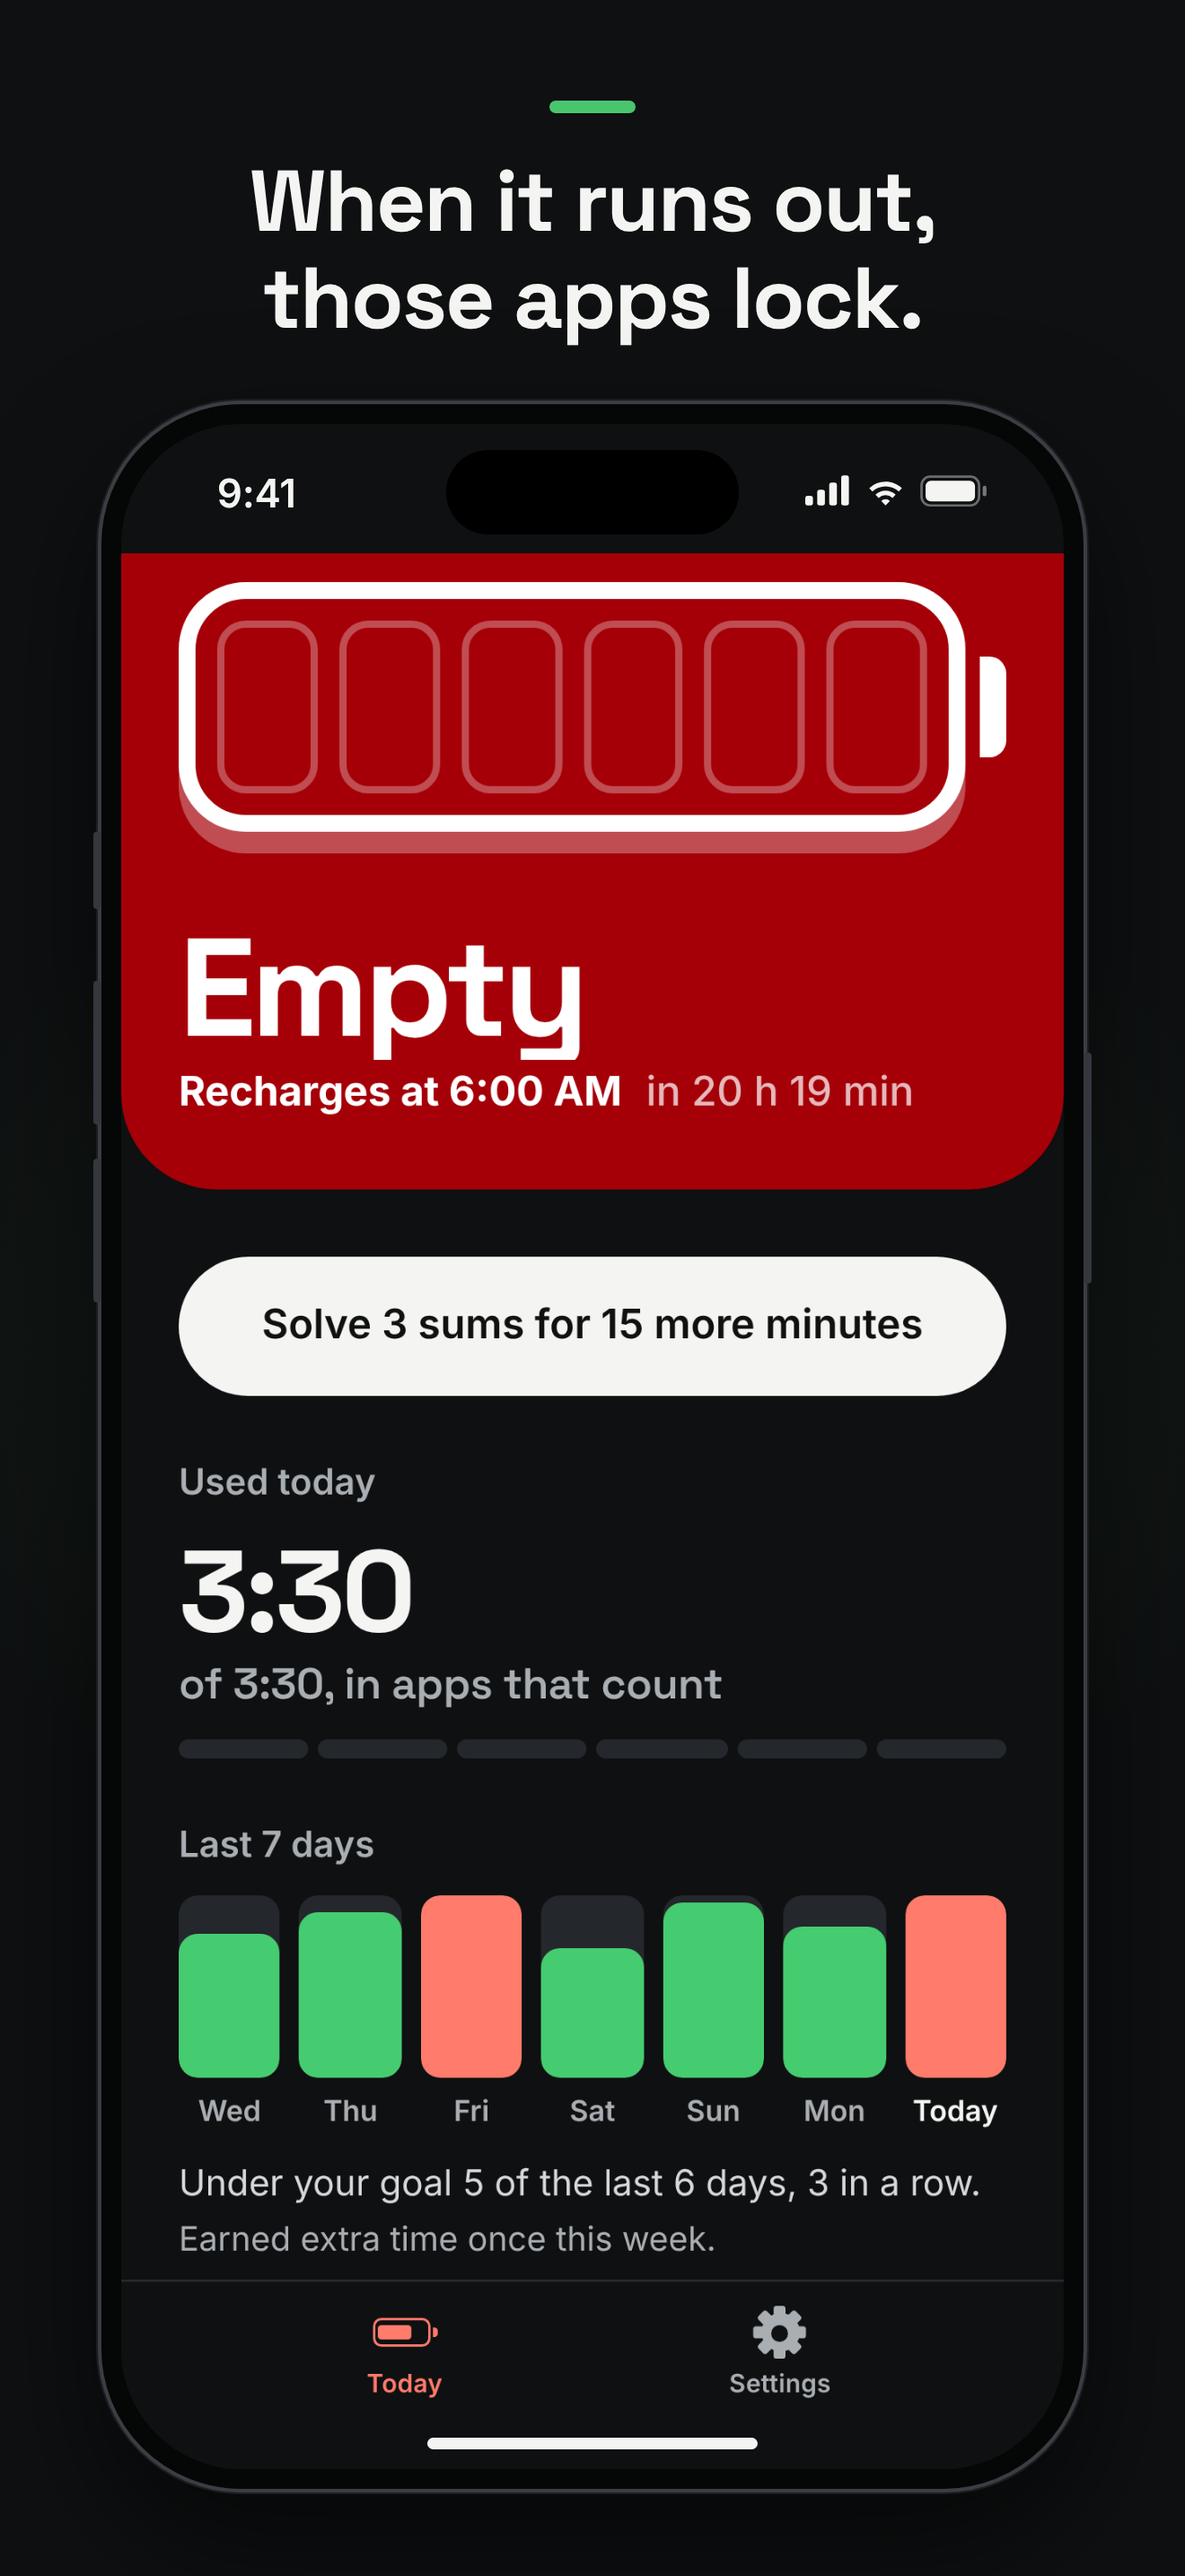
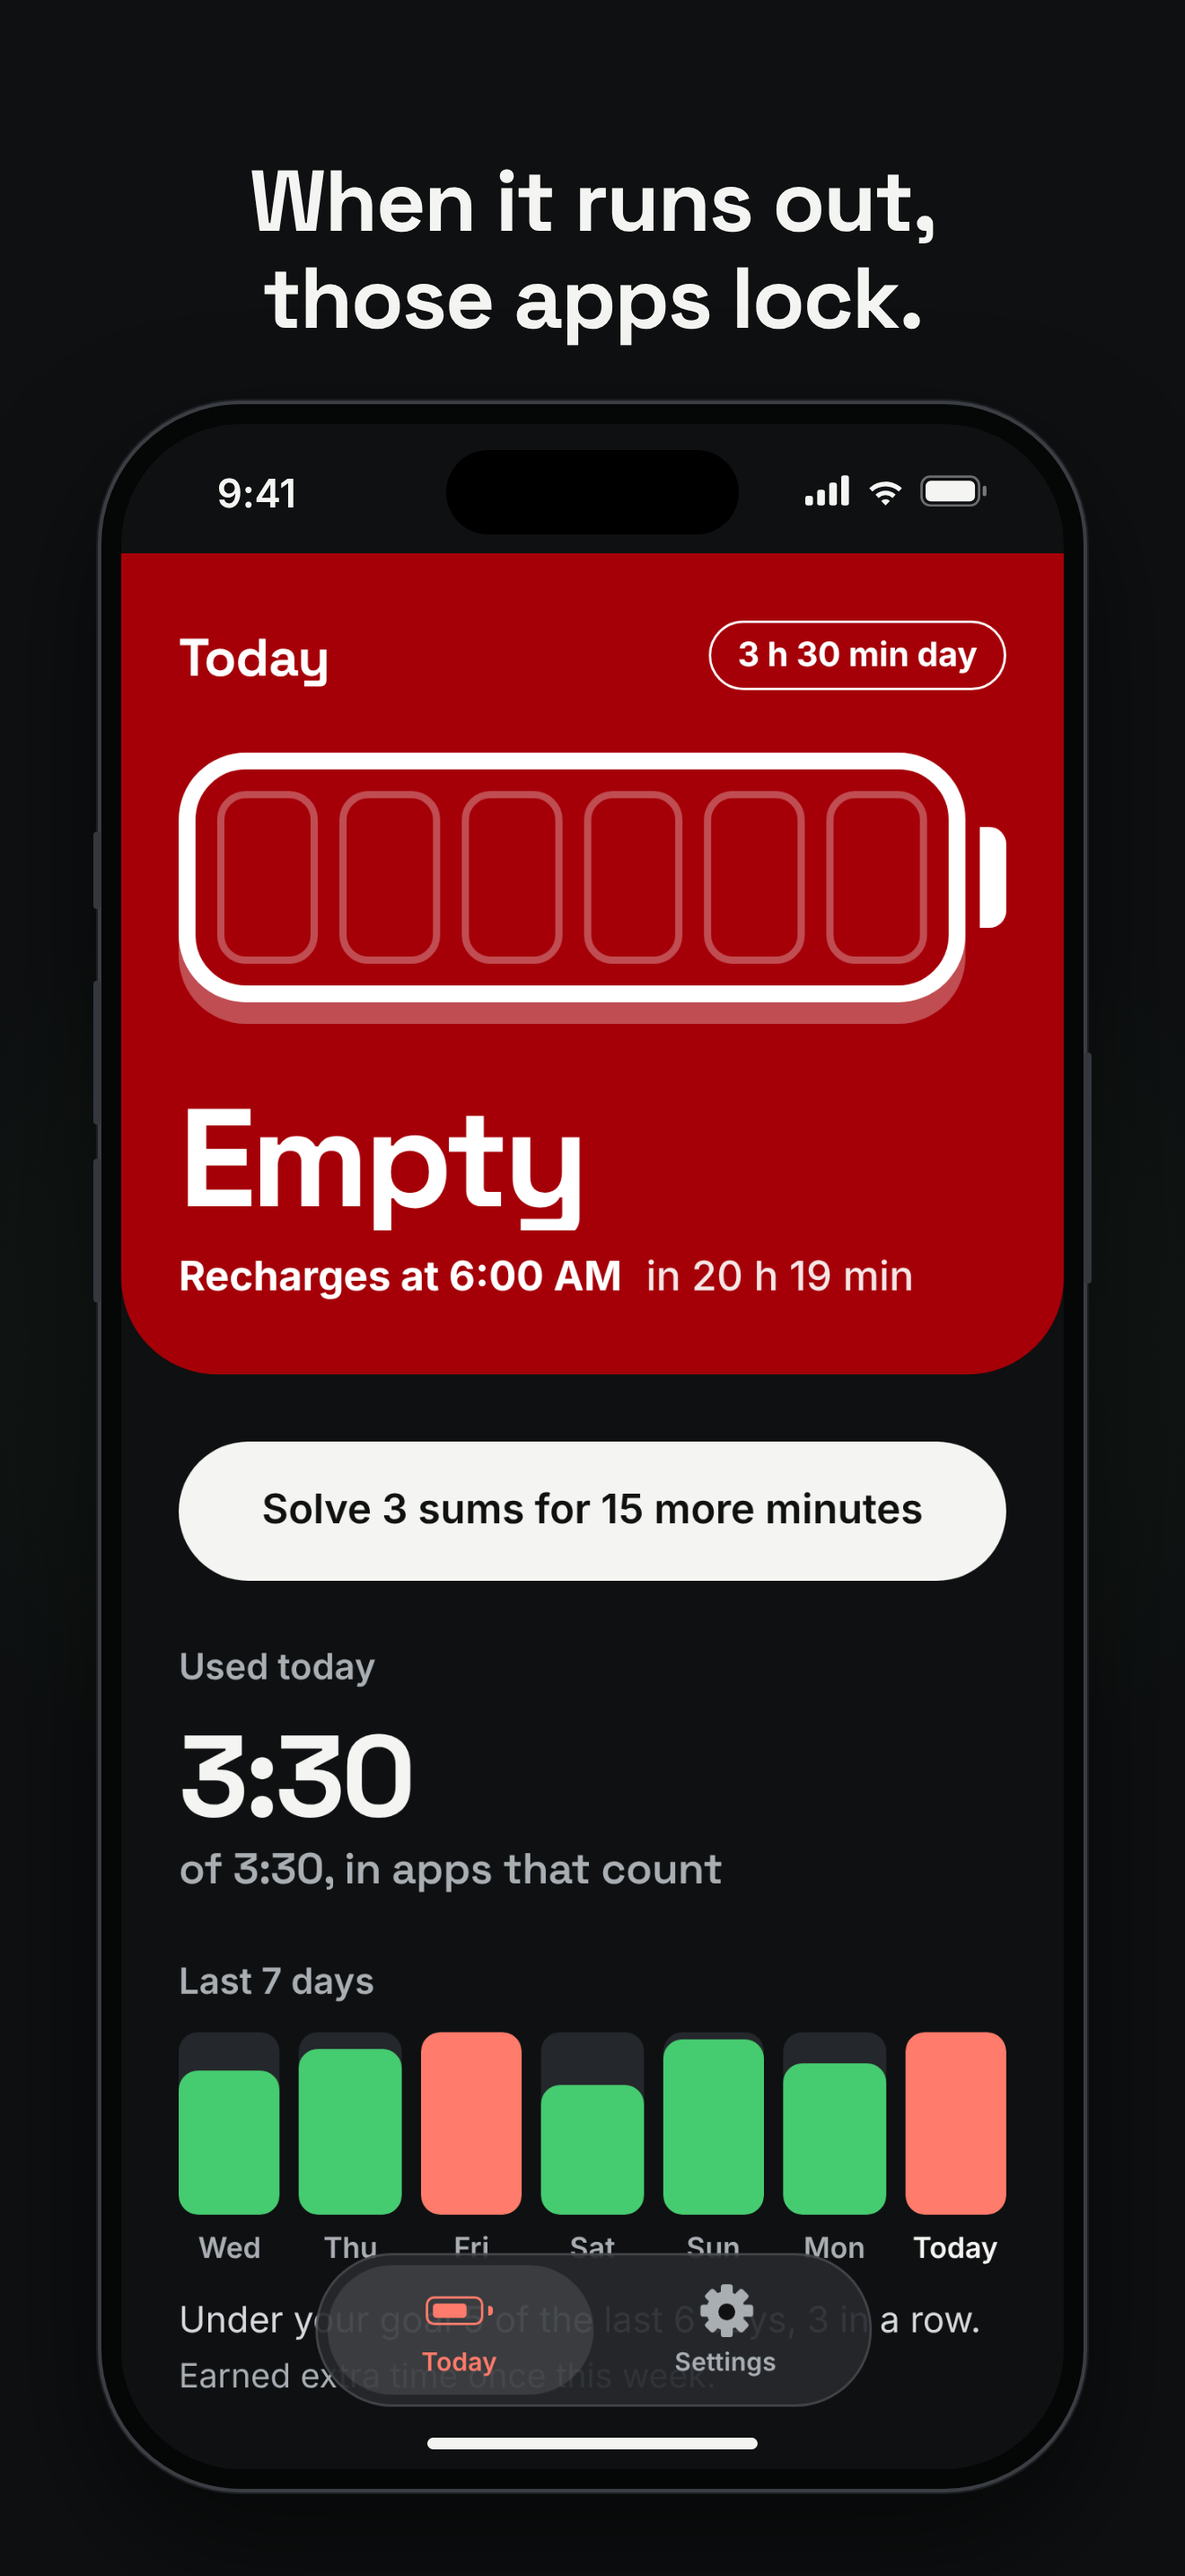
plainlimit 1.0.1: second review round
- Web tab bar floats over the page like the iPhone's, so screenshots
  show the real layout and no text is cut at a hard edge.
- The bar under "Used today" is removed (it read wrong both ways).
- Store shots ordered battery, empty, sums, settings; caption dash gone.
- Goal pill in normal case, more room under the headline, countdown
  readable on red, clearer sums note.

Claude-Session: https://claude.ai/code/session_01P4SSbMQUsnKyhcfhzrtFQp

Changed region(s): [[0.0932, 0.2172, 0.9008, 0.962], [0.4659, 0.031, 0.528, 0.0621]]

diff --git a/apps/plainlimit/src/app/(tabs)/index.tsx b/apps/plainlimit/src/app/(tabs)/index.tsx
@@ -13,7 +13,6 @@ import { Battery } from '@/ui/Battery';
 import { CountingProblem } from '@/ui/CountingProblem';
 import { BigButton, Label, StatusBand } from '@/ui/kit';
 import { useEasedColor } from '@/ui/motion';
-import { Ruler } from '@/ui/Ruler';
 import { c, display } from '@/ui/theme';
 import { TodayTotal, UsageReport } from '@/ui/UsageReport';
 import { WeekView } from '@/ui/WeekView';
@@ -25,7 +24,7 @@ import { useDay } from '@/ui/useDay';
 export default function Today() {
   const router = useRouter();
   const insets = useSafeAreaInsets();
-  const { now, settings, day, fraction, cells, tone, accent } = useDay();
+  const { now, settings, day, cells, tone, accent } = useDay();
   const { history, watching } = useDoc();
   const problem = store.health();
   // The phone tells the app about use in steps. The figure on screen is drawn
@@ -61,7 +60,7 @@ export default function Today() {
             </Text>
             <View style={styles.rechargeRow}>
               <Text style={[styles.recharge, { color: tone.fg }]}>Recharges at {recharge}</Text>
-              <Text style={[styles.until, { color: tone.fg }]}>{untilLabel(now, nextRecharge(now, settings.rechargeMinute))}</Text>
+              <Text style={[styles.until, { color: tone.fg, opacity: tone.dark ? 0.9 : 0.72 }]}>{untilLabel(now, nextRecharge(now, settings.rechargeMinute))}</Text>
             </View>
           </View>
         </Animated.View>
@@ -99,7 +98,6 @@ export default function Today() {
                 {durationLabel(day.usedMinutes)} <Text style={styles.usedOf}>of {durationLabel(settings.goalMinutes)}</Text>
               </Text>
             )}
-            <Ruler fraction={fraction} color={accent} />
           </View>
 
           <WeekView week={weekView(history, day, settings, now, !SCREEN_TIME_AVAILABLE || watching === true)} />
@@ -130,11 +128,11 @@ const styles = StyleSheet.create({
   field: { paddingHorizontal: 24, paddingBottom: 30, gap: 26, borderBottomLeftRadius: 40, borderBottomRightRadius: 40 },
   top: { flexDirection: 'row', alignItems: 'center', justifyContent: 'space-between', gap: 12 },
   title: { fontFamily: display.bold, fontSize: 22, lineHeight: 26, letterSpacing: -0.3 },
-  goal: { fontSize: 12, fontWeight: '700', letterSpacing: 1.2, textTransform: 'uppercase', borderWidth: 1.5, borderRadius: 99, paddingVertical: 5, paddingHorizontal: 11, overflow: 'hidden' },
+  goal: { fontSize: 14, fontWeight: '700', borderWidth: 1.5, borderRadius: 99, paddingVertical: 5, paddingHorizontal: 11, overflow: 'hidden' },
   word: { fontFamily: display.bold, fontSize: 58, lineHeight: 58, letterSpacing: -2.2 },
-  rechargeRow: { flexDirection: 'row', flexWrap: 'wrap', alignItems: 'baseline', columnGap: 10, rowGap: 2 },
+  rechargeRow: { flexDirection: 'row', flexWrap: 'wrap', alignItems: 'baseline', columnGap: 10, rowGap: 2, marginTop: 6 },
   recharge: { fontSize: 17, fontWeight: '700' },
-  until: { fontSize: 17, fontWeight: '500', opacity: 0.72 },
+  until: { fontSize: 17, fontWeight: '500' },
   rest: { paddingHorizontal: 24, paddingTop: 28, gap: 26 },
   strip: { borderLeftWidth: 0, borderWidth: 1.5, borderRadius: 18, paddingVertical: 14, paddingHorizontal: 16 },
   used: { fontFamily: display.bold, fontSize: 48, lineHeight: 50, letterSpacing: -1.6, color: c.ink },

diff --git a/apps/plainlimit/src/ui/AppTabs.web.tsx b/apps/plainlimit/src/ui/AppTabs.web.tsx
@@ -4,9 +4,9 @@ import { Pressable, StyleSheet, Text, View, type PressableProps } from 'react-na
 import { c } from './theme';
 import { useDay } from './useDay';
 
-// The web preview's tab bar, drawn to match the iPhone's (AppTabs.tsx): an
-// icon over a small label for each tab, tinted in the battery's colour when
-// open. The icons stand in for the SF Symbols the phone draws (battery.75percent
+// The web preview's tab bar, drawn to match the iPhone's (AppTabs.tsx): a
+// floating capsule with an icon over a small label for each tab, tinted in the
+// battery's colour when open. The icons stand in for the SF Symbols the phone draws (battery.75percent
 // and gearshape), which the web has no copy of.
 
 function BatteryIcon({ color }: { color: string }) {
@@ -41,7 +41,7 @@ function GearIcon({ color }: { color: string }) {
 function TabButton({ label, icon, accent, isFocused, ...props }: TabTriggerSlotProps & { label: string; icon: 'battery' | 'gear'; accent: string }) {
   const color = isFocused ? accent : c.ink3;
   return (
-    <Pressable {...(props as PressableProps)} accessibilityRole="tab" accessibilityState={{ selected: !!isFocused }} style={styles.button}>
+    <Pressable {...(props as PressableProps)} accessibilityRole="tab" accessibilityState={{ selected: !!isFocused }} style={[styles.button, isFocused ? styles.chosen : null]}>
       {icon === 'battery' ? <BatteryIcon color={color} /> : <GearIcon color={color} />}
       <Text style={{ fontSize: 10.5, fontWeight: '600', letterSpacing: 0.1, color }}>{label}</Text>
     </Pressable>
@@ -70,6 +70,8 @@ export default function AppTabs() {
 }
 
 const styles = StyleSheet.create({
-  bar: { flexDirection: 'row', borderTopWidth: StyleSheet.hairlineWidth, borderTopColor: c.rule, backgroundColor: c.ground, paddingTop: 6, paddingBottom: 26, paddingHorizontal: 40 },
-  button: { flex: 1, height: 46, alignItems: 'center', justifyContent: 'center', gap: 3 },
+  // Floating over the page, as the iPhone's tab bar does: the page runs on underneath.
+  bar: { position: 'absolute', bottom: 26, alignSelf: 'center', width: 232, flexDirection: 'row', padding: 4, borderRadius: 32, backgroundColor: 'rgba(38,40,44,0.92)', borderWidth: StyleSheet.hairlineWidth, borderColor: 'rgba(255,255,255,0.14)' },
+  button: { flex: 1, height: 54, borderRadius: 27, alignItems: 'center', justifyContent: 'center', gap: 3 },
+  chosen: { backgroundColor: 'rgba(255,255,255,0.10)' },
 });

diff --git a/apps/plainlimit/src/ui/kit.tsx b/apps/plainlimit/src/ui/kit.tsx
@@ -1,5 +1,5 @@
 import type { ReactNode } from 'react';
-import { Pressable, ScrollView, StyleSheet, Text, View, type StyleProp, type TextStyle, type ViewStyle } from 'react-native';
+import { Pressable, ScrollView, StyleSheet, Text, View, type StyleProp, type TextStyle, type ViewStyle, Platform } from 'react-native';
 import { useSafeAreaInsets } from 'react-native-safe-area-context';
 
 import { tap } from '@/platform/haptics';
@@ -15,7 +15,8 @@ export function Page({ children, top = 0, bottom = 32 }: { children: ReactNode; 
     <View style={{ flex: 1, backgroundColor: c.ground }}>
       <ScrollView
         style={{ flex: 1, backgroundColor: c.ground }}
-        contentContainerStyle={{ paddingTop: insets.top + top, paddingBottom: insets.bottom + bottom, paddingHorizontal: 20, gap: 12 }}
+        // On the web the tab bar floats over the page, so the end can scroll clear of it.
+        contentContainerStyle={{ paddingTop: insets.top + top, paddingBottom: insets.bottom + bottom + (Platform.OS === 'web' ? 96 : 0), paddingHorizontal: 20, gap: 12 }}
         keyboardShouldPersistTaps="handled">
         {children}
       </ScrollView>

diff --git a/apps/plainlimit/src/app/puzzle.tsx b/apps/plainlimit/src/app/puzzle.tsx
@@ -4,7 +4,7 @@ import { Pressable, StyleSheet, Text, TextInput, View } from 'react-native';
 import { useSafeAreaInsets } from 'react-native-safe-area-context';
 
 import { cellsLeft } from '@/domain/battery';
-import { clockLabelOf } from '@/domain/day';
+import { clockLabel, clockLabelOf } from '@/domain/day';
 import { isRight, makeRandom, makeSums, topUpPlan, type Sum } from '@/domain/puzzle';
 import { success, warning } from '@/platform/haptics';
 import { store } from '@/state/store';
@@ -90,7 +90,7 @@ export default function Puzzle() {
           <Text accessibilityRole="header" style={styles.title}>
             Earn {plan.minutes} minutes
           </Text>
-          <Text style={styles.lead}>{plan.sums} sums, no skipping. The time is added; the battery stays empty.</Text>
+          <Text style={styles.lead}>{plan.sums} sums, no skipping. Adds {plan.minutes} minutes now; your battery still refills at {clockLabel(settings.rechargeMinute)}.</Text>
         </View>
 
         <View style={{ flexDirection: 'row', alignItems: 'center', gap: 10 }}>

diff --git a/apps/plainlimit/NOTES.md b/apps/plainlimit/NOTES.md
@@ -343,13 +343,13 @@ The same behaviour as build 75, with the report rules in one place, so a fix for
 
 From the store screenshots' second review (verdict "almost") and the owner's phone:
 - **The battery reads the right way at a glance.** A used cell is an outlined empty slot (the ground shows through), like the phone's own battery icon; only charge is solid. Before, a used cell was a darker-green block and could read as the one lit cell. Same in the widget. The slot line is a little darker than before (32% ink, was 22%) so six cells stay countable at widget size.
-- **The bar under "Used today" lights what is left**, under the solid cells, and goes dark from the right as the battery does. It used to light what was used, which read as "one cell left" next to the new battery.
+- **The bar under "Used today" is gone.** Lit for what was used, it read as "one cell left" next to the new battery (first review); lit for what was left, it contradicted its "Used today" label (second review). The battery and "0:47 of 3:30" already say it. Easy to bring back if the owner misses it.
 - **Two cells left is a clear yellow**, not a lime beside the full battery's green (the tone ramp reaches yellow by three quarters of the goal; the widget's colour table and the covering screens follow).
 - **Last 7 days has two colours:** green for a day under the goal, the light red for a day that ran out. How close a day came is the bar's height. Colouring by how low the battery got painted good weeks in warning colours.
-- Settings' small battery shows all six cells (it shows the allowance, not today); a chosen option is an outline in the day's colour with a checkmark instead of a solid block with a dot; section labels are sentence case instead of spaced capitals; the countdown after "Recharges at" is quieter; the sums screen says "The time is added; the battery stays empty."
+- Settings' small battery shows all six cells (it shows the allowance, not today); a chosen option is an outline in the day's colour with a checkmark instead of a solid block with a dot; section labels are sentence case instead of spaced capitals; the countdown after "Recharges at" is quieter; the sums screen's note is clearer (below)
 - **The phone's "Used today" figure could be drawn half below its box** (the owner's phone, build 75: "2:06" with its top half cut off, fine a moment later). iOS first laid the report out taller than the box and the figure was centred in it. It now keeps to the top 52 points of whatever size it is given, and the box asks the report to lay out again when it gets its real size.
-- **Store screenshots** (for 1.0.1's listing; 1.0.0's are already with Apple): the web build's tab bar draws an icon over a small label for each tab like the iPhone's; the empty-battery shot is in "Work for it", so it shows "Solve 3 sums for 15 more minutes" and leads on to the sums shot; each shot scrolls just enough that the tab bar cuts no text.
-- Left for later, from the same review: Settings as one grouped list with a time picker instead of − and +, one way of writing durations everywhere, the green card running up behind the clock, curly apostrophes, "14 ticked" wording, and the sums screen's "Never mind" as a button.
+- **Store screenshots** (for 1.0.1's listing; 1.0.0's are already with Apple): the web build's tab bar is a floating capsule with an icon over a small label for each tab, like the iPhone's, and the page runs on under it as it does on the phone (so nothing is cut at a hard edge); the empty-battery shot is in "Work for it" and shows "Solve 3 sums for 15 more minutes"; the order is battery, empty, sums, settings, so the button pays off in the next picture; the green dash over each caption is gone. Also: the goal pill reads "3 h 30 min day" in normal case, a little more room under the headline, the countdown easier to read on the empty red, and the sums screen says "Adds 15 minutes now; your battery still refills at 6:00 AM." Two design reviews (both "almost") were applied; what they raised and was left is listed below.
+- Left for later, from the reviews: Settings as one grouped list with a time picker instead of − and +; one way of writing durations everywhere; the green card running up behind the clock; curly apostrophes; "14 ticked" wording; the sums screen's "Never mind" as a button and the number pad in its screenshot; one red for the empty screen; showing a locked app in the empty screenshot; a mark on the week for a day with earned time; the battery's offset shadow. Not taken: green cells on a dark card (the solid dark cells on the day's colour are the app's look, and read the way the phone's own battery icon does in light mode).
 
 ## Ideas for later versions (not built)
 
